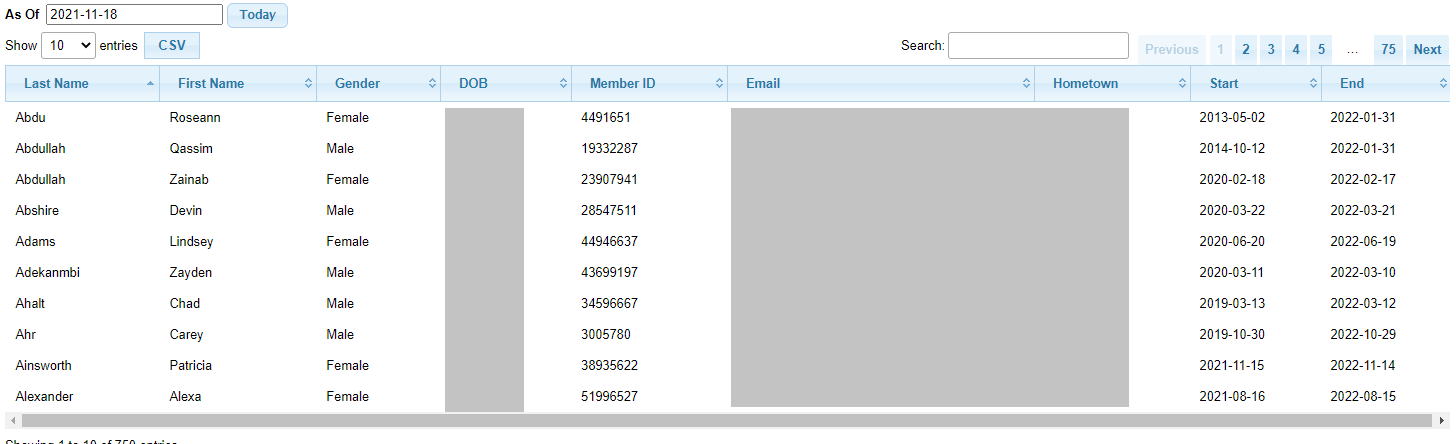
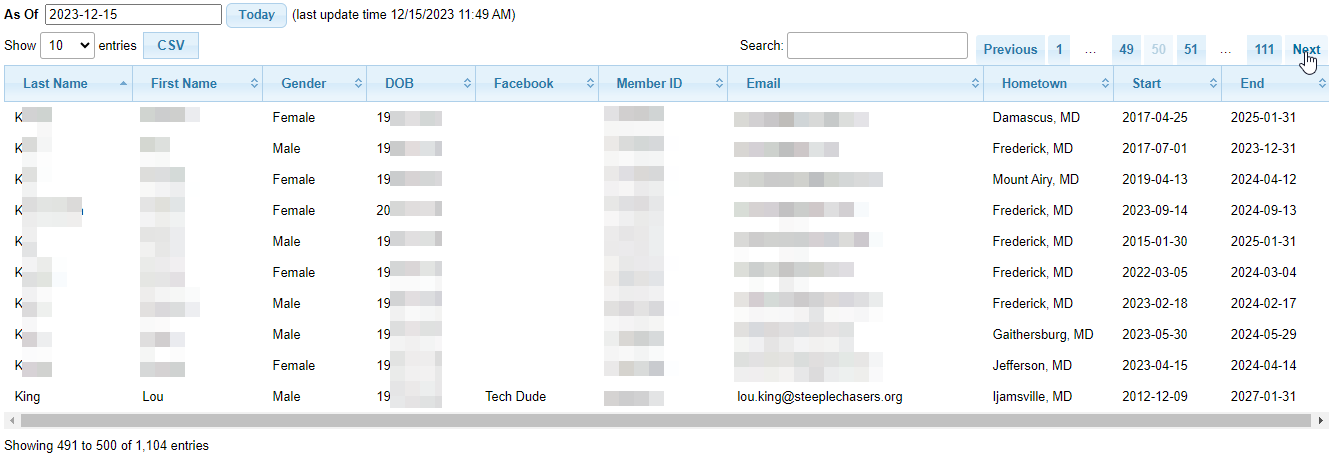
club members view now shows Facebook alias (#564)

diff --git a/members/views/admin/membership_admin.py b/members/views/admin/membership_admin.py
@@ -43,8 +43,8 @@ adminguide = 'https://members.readthedocs.io/en/{docversion}/membership-admin-gu
 # clubmembers endpoint
 ##########################################################################################
 
-clubmembers_dbattrs = 'id,svc_member_id,given_name,family_name,gender,dob,email,hometown,memberdates.start_date,memberdates.end_date,'.split(',')
-clubmembers_formfields = 'rowid,svc_member_id,given_name,family_name,gender,dob,email,hometown,start_date,end_date'.split(',')
+clubmembers_dbattrs = 'id,svc_member_id,given_name,family_name,gender,dob,email,hometown,memberalias.facebookalias,memberdates.start_date,memberdates.end_date,'.split(',')
+clubmembers_formfields = 'rowid,svc_member_id,given_name,family_name,gender,dob,email,hometown,facebookalias,start_date,end_date'.split(',')
 clubmembers_dbmapping = dict(zip(clubmembers_dbattrs, clubmembers_formfields))
 clubmembers_formmapping = dict(zip(clubmembers_formfields, clubmembers_dbattrs))
 
@@ -110,6 +110,11 @@ clubmembers_view = ClubMembers(
                          'type': 'readonly',
                          '_ColumnDT_args' :
                              {'sqla_expr': func.date_format(Member.dob, '%Y-%m-%d'), 'search_method': 'yadcf_range_date'},
+                         },
+                        {'data': 'facebookalias', 'name': 'facebookalias', 'label': 'Facebook',
+                         'type': 'readonly',
+                         '_ColumnDT_args' :
+                             {'sqla_expr': MemberAlias.facebookalias, 'search_method': 'yadcf_range_date'},
                          },
                         {'data': 'svc_member_id', 'name': 'svc_member_id', 'label': 'Member ID',
                          'type': 'readonly',
